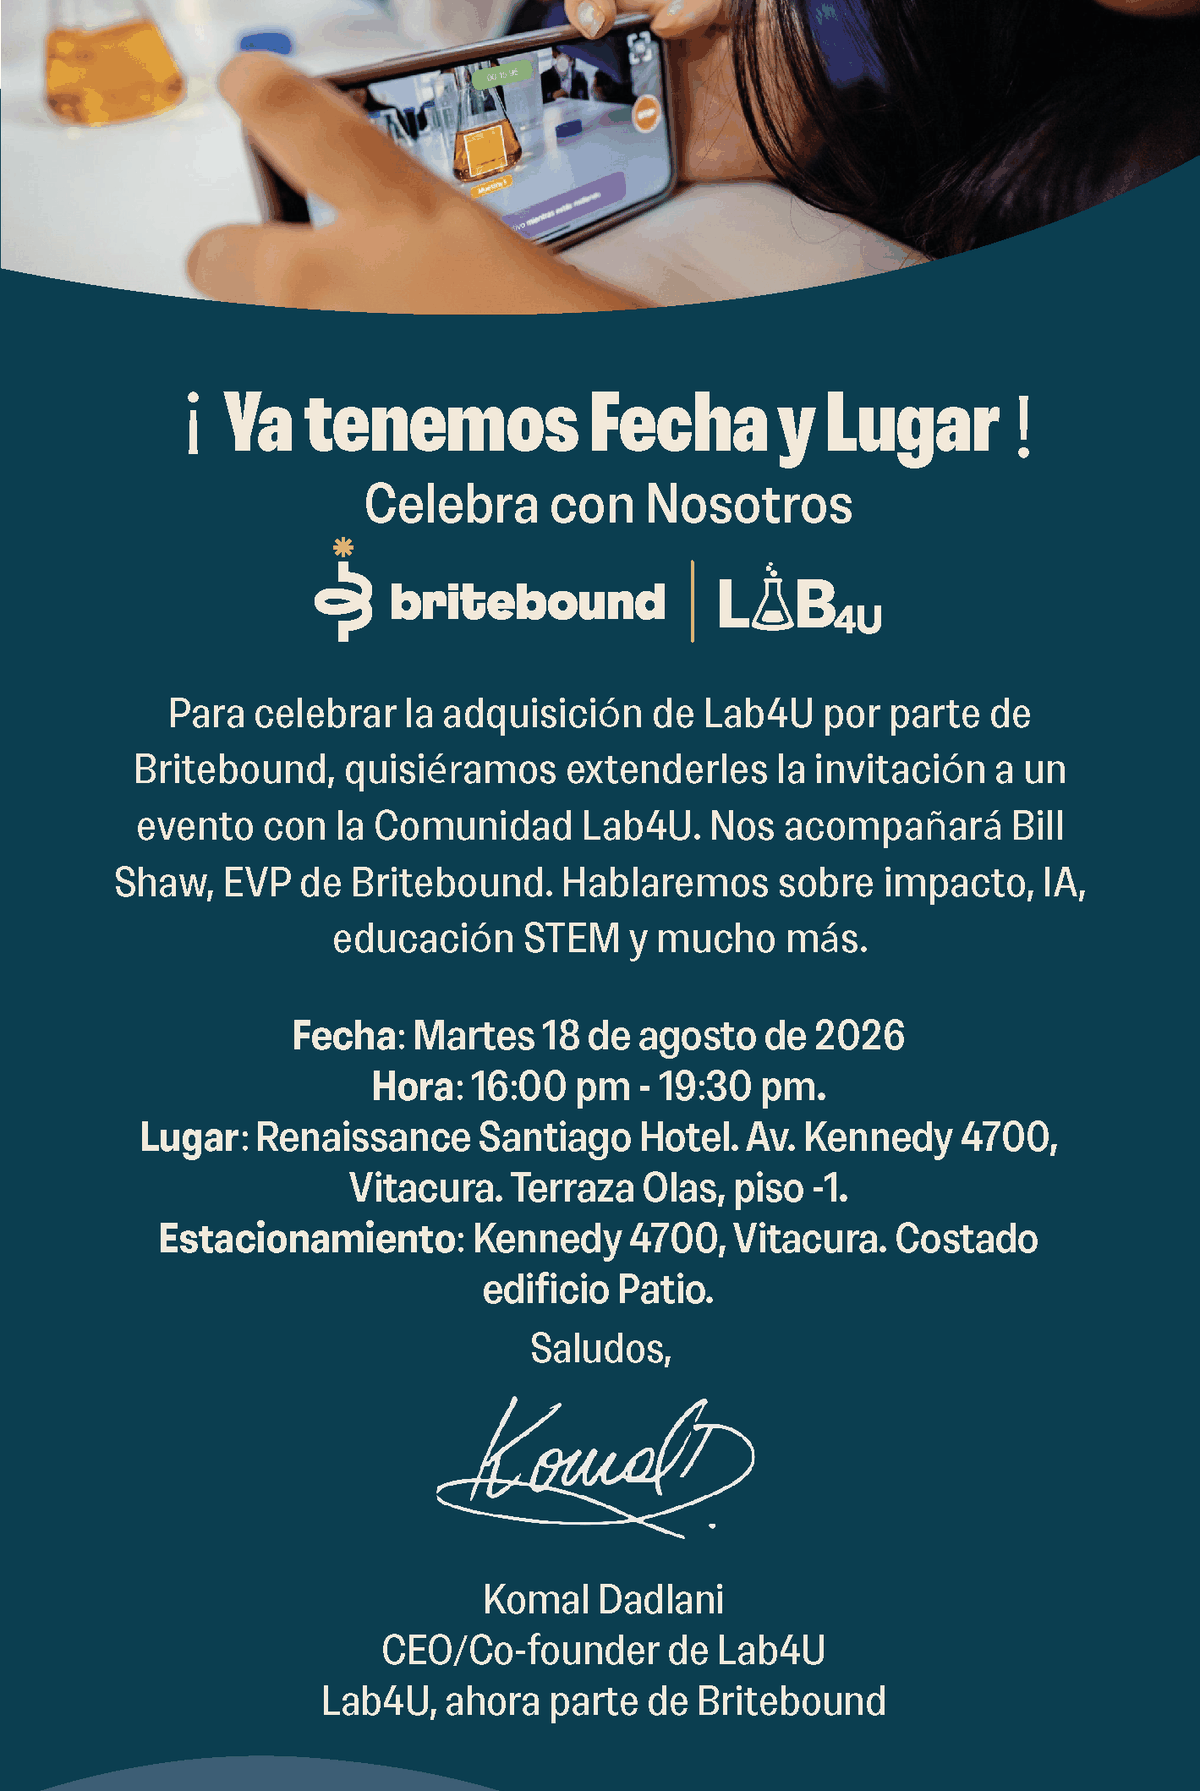
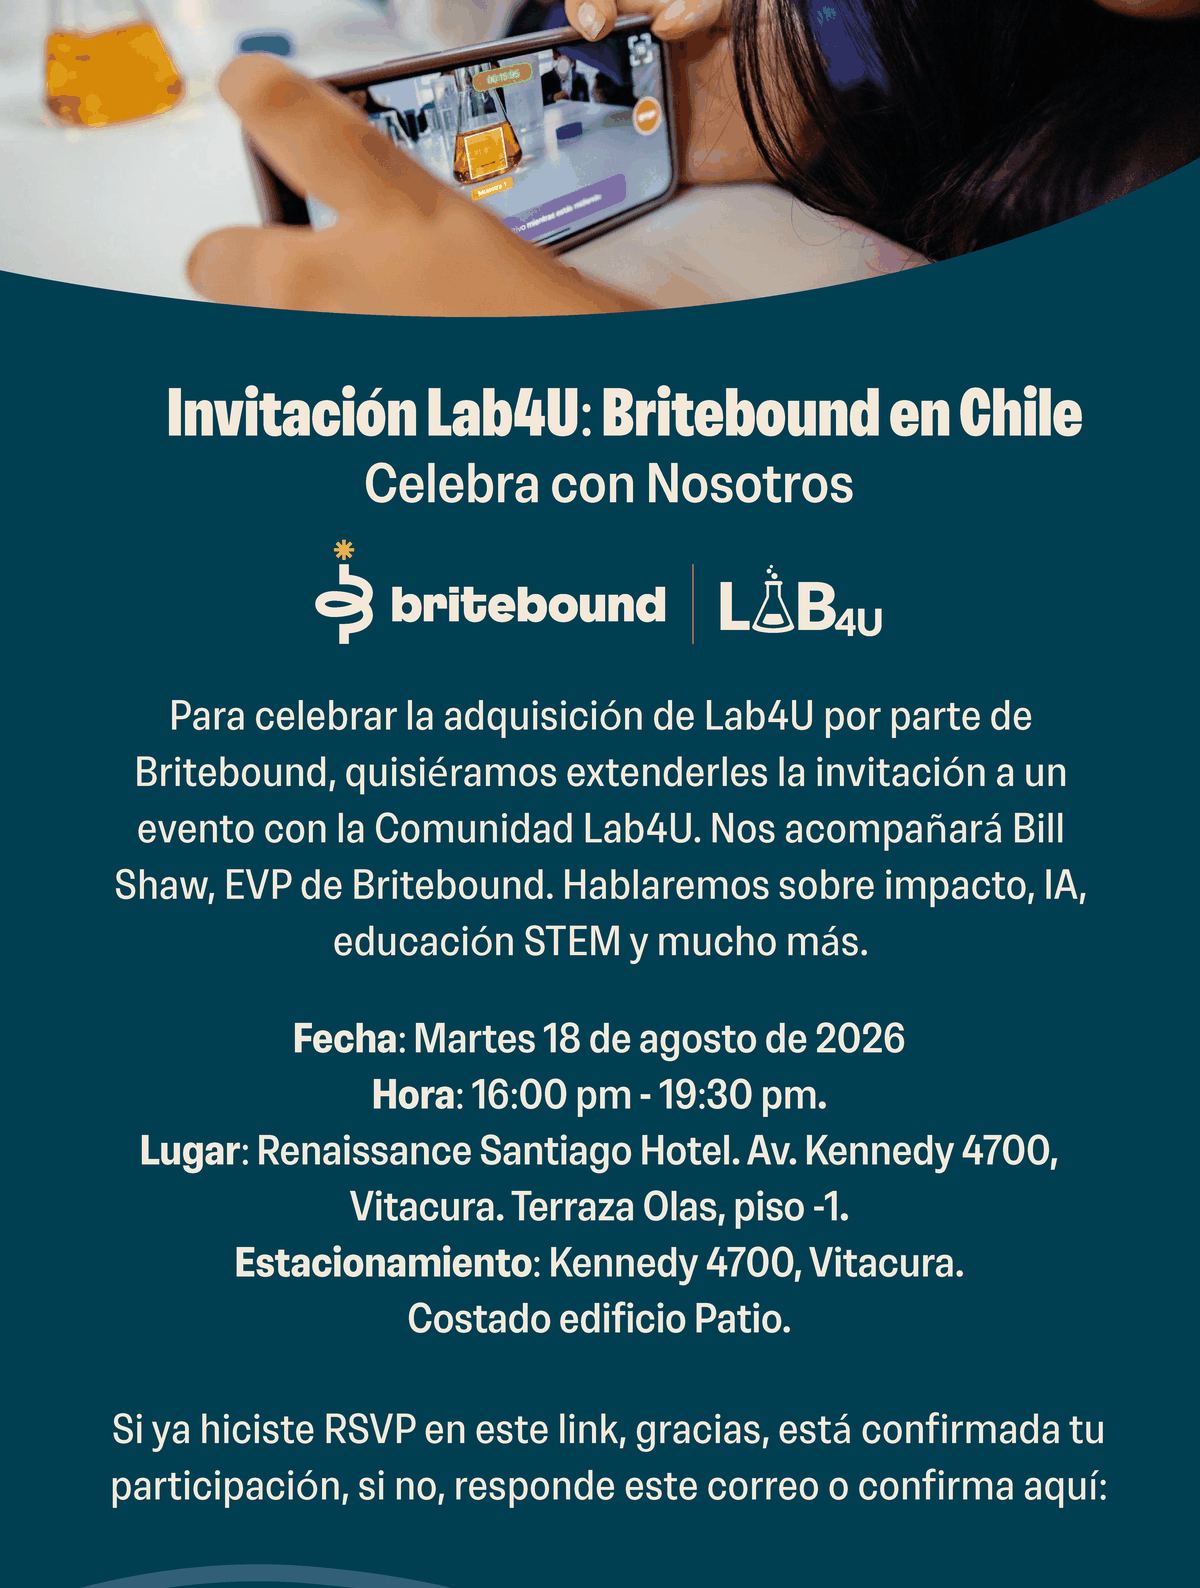
Actualiza grafico v2: nuevo titulo, parrafo RSVP y CTA al centro
- Nuevo titulo: 'Invitacion Lab4U: Britebound en Chile'
- Se agrega parrafo RSVP antes del boton
- El CTA queda al centro, con saludo y firma debajo -> nueva pieza inv2-bottom.png
- Se regenera la tarjeta Open Graph con el titulo nuevo
- Los assets inv-*.png de la v1 (correos ya enviados) quedan intactos

Changed region(s): [[0.0, 0.0, 1.0, 1.0], [0.925, 0.0, 0.9867, 0.0309]]

diff --git a/index.html b/index.html
@@ -3,29 +3,29 @@
 <head>
 <meta charset="utf-8">
 <meta name="viewport" content="width=device-width, initial-scale=1">
-<title>Ya tenemos Fecha y Lugar — Britebound + Lab4U</title>
+<title>Invitación Lab4U: Britebound en Chile</title>
 <meta name="description" content="Martes 18 de agosto de 2026, 16:00 a 19:30 hrs. Renaissance Santiago Hotel, Av. Kennedy 4700, Vitacura. Confirma tu asistencia.">
-<meta name="theme-color" content="#0B3E50">
+<meta name="theme-color" content="#003F52">
 
 <!-- Tarjeta de previsualizacion (WhatsApp, LinkedIn, Slack, Telegram) -->
 <meta property="og:type" content="website">
 <meta property="og:site_name" content="Lab4U">
 <meta property="og:locale" content="es_CL">
 <meta property="og:url" content="https://oriondev-cl.github.io/lab4u-invitacion-assets/">
-<meta property="og:title" content="Ya tenemos Fecha y Lugar — Britebound + Lab4U">
+<meta property="og:title" content="Invitación Lab4U: Britebound en Chile">
 <meta property="og:description" content="Martes 18 de agosto de 2026, 16:00 a 19:30 hrs. Renaissance Santiago Hotel, Av. Kennedy 4700, Vitacura. Confirma tu asistencia.">
 <meta property="og:image" content="https://oriondev-cl.github.io/lab4u-invitacion-assets/og-invitacion.png">
 <meta property="og:image:width" content="1200">
 <meta property="og:image:height" content="630">
-<meta property="og:image:alt" content="Ya tenemos Fecha y Lugar. Britebound y Lab4U. Martes 18 de agosto de 2026.">
+<meta property="og:image:alt" content="Invitación Lab4U: Britebound en Chile. Martes 18 de agosto de 2026.">
 <meta name="twitter:card" content="summary_large_image">
-<meta name="twitter:title" content="Ya tenemos Fecha y Lugar — Britebound + Lab4U">
+<meta name="twitter:title" content="Invitación Lab4U: Britebound en Chile">
 <meta name="twitter:description" content="Martes 18 de agosto de 2026, 16:00 a 19:30 hrs. Renaissance Santiago Hotel, Av. Kennedy 4700, Vitacura.">
 <meta name="twitter:image" content="https://oriondev-cl.github.io/lab4u-invitacion-assets/og-invitacion.png">
 
 <link rel="icon" href="data:,">
 <style>
-  :root{ --teal:#0B3E50; --crema:#F2EBDD; }
+  :root{ --teal:#003F52; --crema:#F2EBDD; }
   *{box-sizing:border-box;}
   html,body{margin:0;padding:0;}
   body{
@@ -39,8 +39,9 @@
   /* Fila del boton: mismos anchos que el correo */
   .cta{display:flex;width:100%;line-height:0;font-size:0;}
   .cta > *{display:block;}
-  .cta .lado{width:26.167%;}
-  .cta .boton{width:47.667%;}
+  .cta .izq{width:26.333%;}
+  .cta .boton{width:47.500%;}
+  .cta .der{width:26.167%;}
   .cta .boton img{transition:opacity .15s ease;}
   .cta .boton:hover img,.cta .boton:focus-visible img{opacity:.88;}
   .cta .boton:focus-visible{outline:3px solid var(--crema);outline-offset:-3px;}
@@ -68,20 +69,23 @@
 
   <main class="hoja">
     <img src="inv2-top.png"
-         alt="Ya tenemos Fecha y Lugar. Celebra con nosotros. Britebound y Lab4U. Para celebrar la adquisición de Lab4U por parte de Britebound, quisiéramos extenderles la invitación a un evento con la Comunidad Lab4U. Nos acompañará Bill Shaw, EVP de Britebound. Hablaremos sobre impacto, IA, educación STEM y mucho más. Fecha: martes 18 de agosto de 2026. Hora: 16:00 a 19:30 hrs. Lugar: Renaissance Santiago Hotel, Av. Kennedy 4700, Vitacura, Terraza Olas, piso menos 1. Estacionamiento: Kennedy 4700, Vitacura, costado edificio Patio. Komal Dadlani, CEO y cofundadora de Lab4U.">
+         alt="Invitación Lab4U: Britebound en Chile. Celebra con nosotros. Para celebrar la adquisición de Lab4U por parte de Britebound, quisiéramos extenderles la invitación a un evento con la Comunidad Lab4U. Nos acompañará Bill Shaw, EVP de Britebound. Hablaremos sobre impacto, IA, educación STEM y mucho más. Fecha: martes 18 de agosto de 2026. Hora: 16:00 a 19:30 hrs. Lugar: Renaissance Santiago Hotel, Av. Kennedy 4700, Vitacura, Terraza Olas, piso menos 1. Estacionamiento: Kennedy 4700, Vitacura, costado edificio Patio. Si ya hiciste RSVP en este link, gracias, está confirmada tu participación; si no, responde este correo o confirma aquí:">
 
     <div class="cta">
-      <img class="lado" src="inv2-left.png" alt="">
+      <img class="izq" src="inv2-left.png" alt="">
       <a class="boton" href="https://forms.gle/pxp5mkxh6rfN741e8" target="_blank" rel="noopener">
         <img src="inv2-pill.png" alt="Confirmar tu asistencia">
       </a>
-      <img class="lado" src="inv2-right.png" alt="">
+      <img class="der" src="inv2-right.png" alt="">
     </div>
+
+    <img src="inv2-bottom.png"
+         alt="Saludos, Komal Dadlani, CEO y cofundadora de Lab4U. Lab4U, ahora parte de Britebound.">
   </main>
 
   <nav class="extras">
     <a href="https://www.google.com/maps/search/?api=1&amp;query=Renaissance+Santiago+Hotel%2C+Av.+Kennedy+4700%2C+Vitacura" target="_blank" rel="noopener">Cómo llegar</a>
-    <a href="https://calendar.google.com/calendar/render?action=TEMPLATE&amp;text=Britebound%20%2B%20Lab4U%20%E2%80%94%20Celebra%20con%20Nosotros&amp;dates=20260818T200000Z%2F20260818T233000Z&amp;details=Evento%20con%20la%20Comunidad%20Lab4U%20para%20celebrar%20la%20adquisici%C3%B3n%20de%20Lab4U%20por%20parte%20de%20Britebound.&amp;location=Renaissance%20Santiago%20Hotel%2C%20Av.%20Kennedy%204700%2C%20Vitacura.%20Terraza%20Olas%2C%20piso%20-1." target="_blank" rel="noopener">Agregar al calendario</a>
+    <a href="https://calendar.google.com/calendar/render?action=TEMPLATE&amp;text=Invitaci%C3%B3n%20Lab4U%3A%20Britebound%20en%20Chile&amp;dates=20260818T200000Z%2F20260818T233000Z&amp;details=Evento%20con%20la%20Comunidad%20Lab4U%20para%20celebrar%20la%20adquisici%C3%B3n%20de%20Lab4U%20por%20parte%20de%20Britebound.&amp;location=Renaissance%20Santiago%20Hotel%2C%20Av.%20Kennedy%204700%2C%20Vitacura.%20Terraza%20Olas%2C%20piso%20-1." target="_blank" rel="noopener">Agregar al calendario</a>
   </nav>
 
   <p class="pie">
